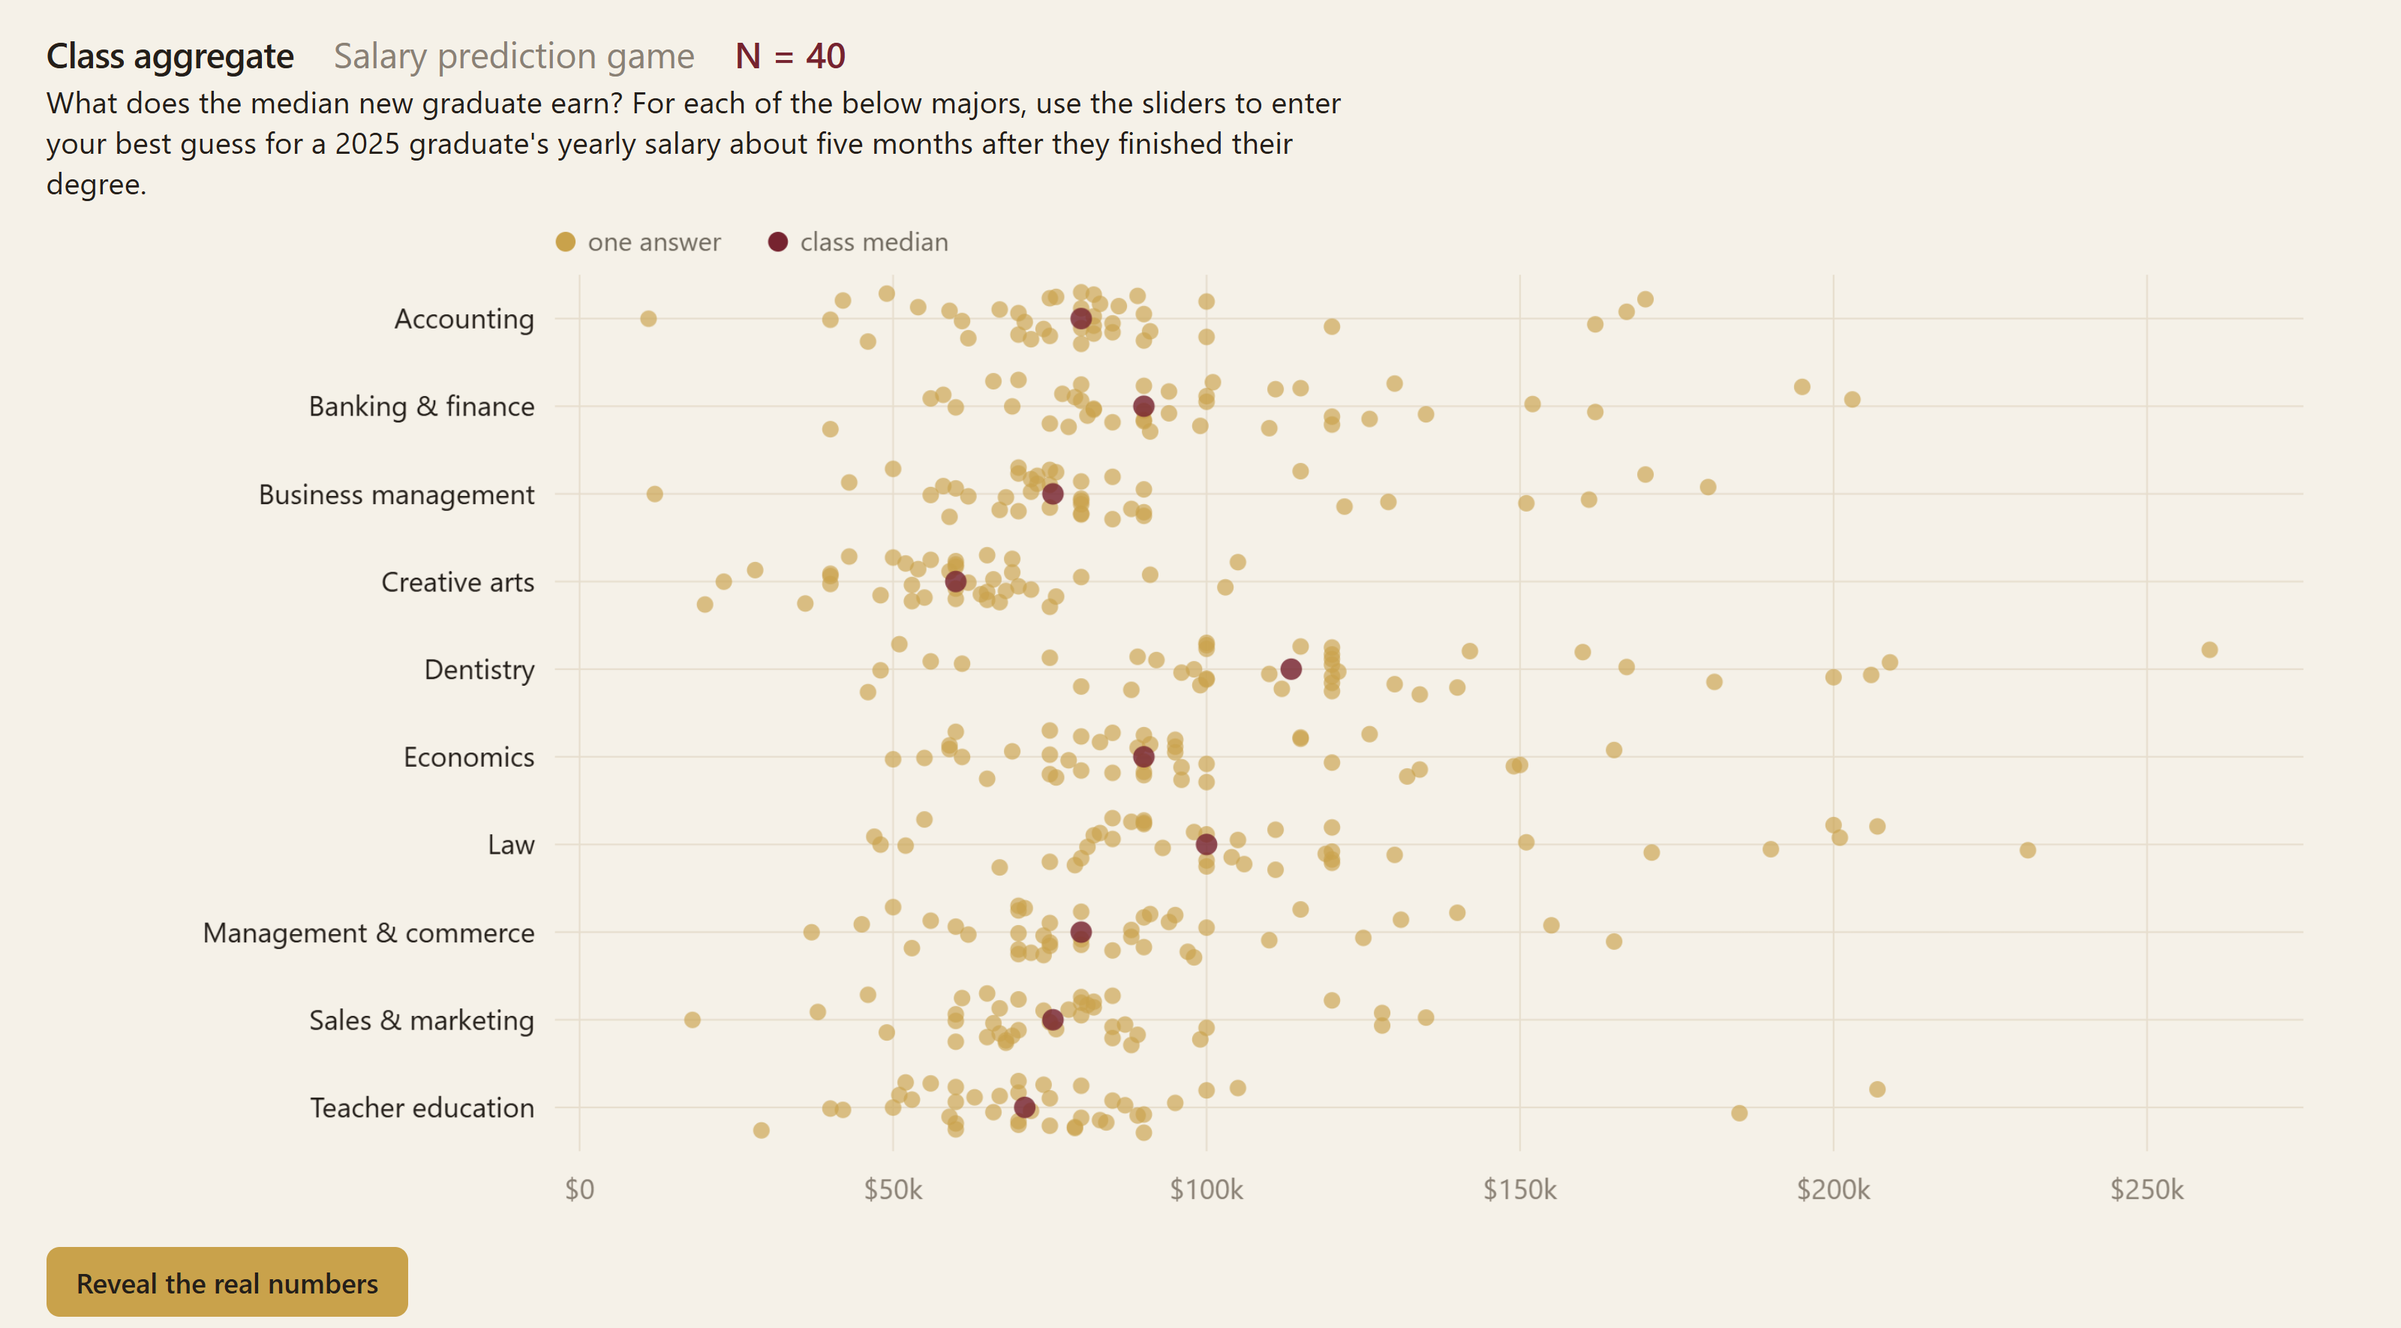
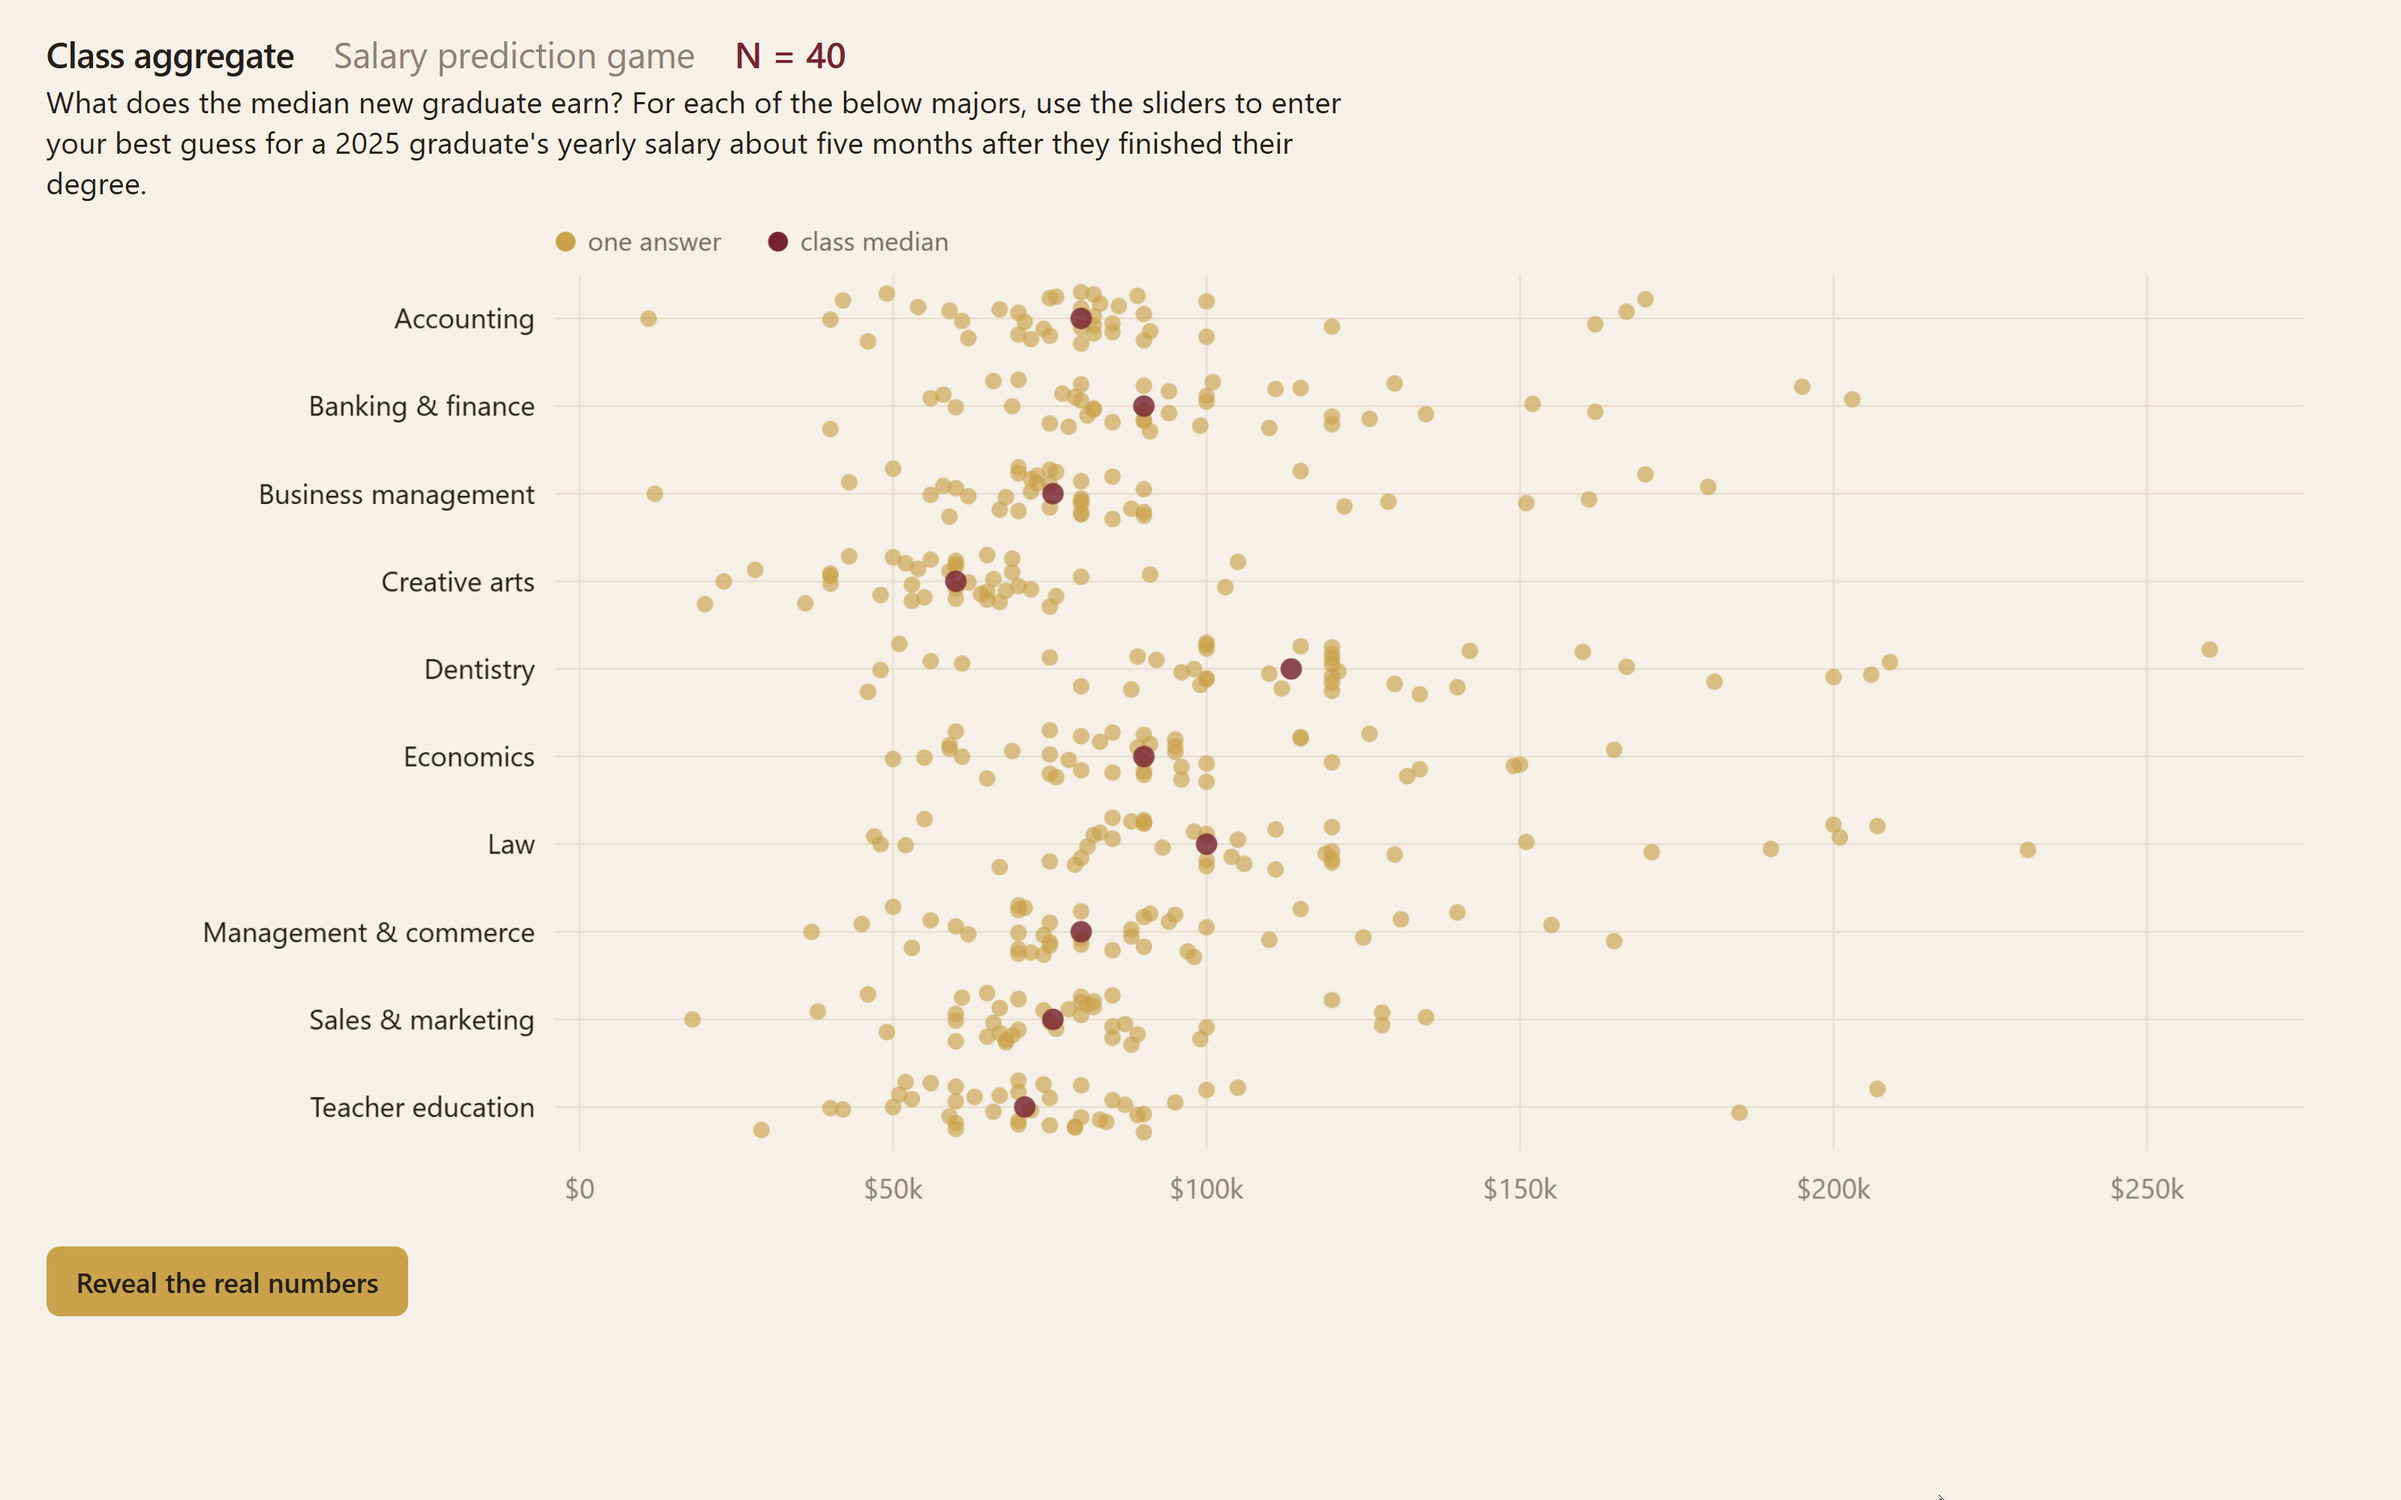
Teaching-day deck: wage slides on one geometry, source lines without figure numbers
Claude-Session: https://claude.ai/code/session_01Vva15RoRXwUstbwVQBA5so

diff --git a/econ2041/slides/formative-portal-teaching-day.html b/econ2041/slides/formative-portal-teaching-day.html
@@ -181,7 +181,7 @@ Homework time: 64 $\rightarrow$ 45 minutes
 <div class="fragment" style="color: #c8102e">
 <p>4 in 5 AI users look like they're "outsourcing"</p>
 </div>
-<p><span class="src">Strömberg, Lei, and Wu (2026), "The generative AI learning penalty: evidence from Chinese secondary education", Figure 2</span></p>
+<p><span class="src">Strömberg, Lei, and Wu (2026), "The generative AI learning penalty: evidence from Chinese secondary education"</span></p>
 <!-- =================================================================== -->
 </section>
 <section id="design-choices" class="slide level2">
